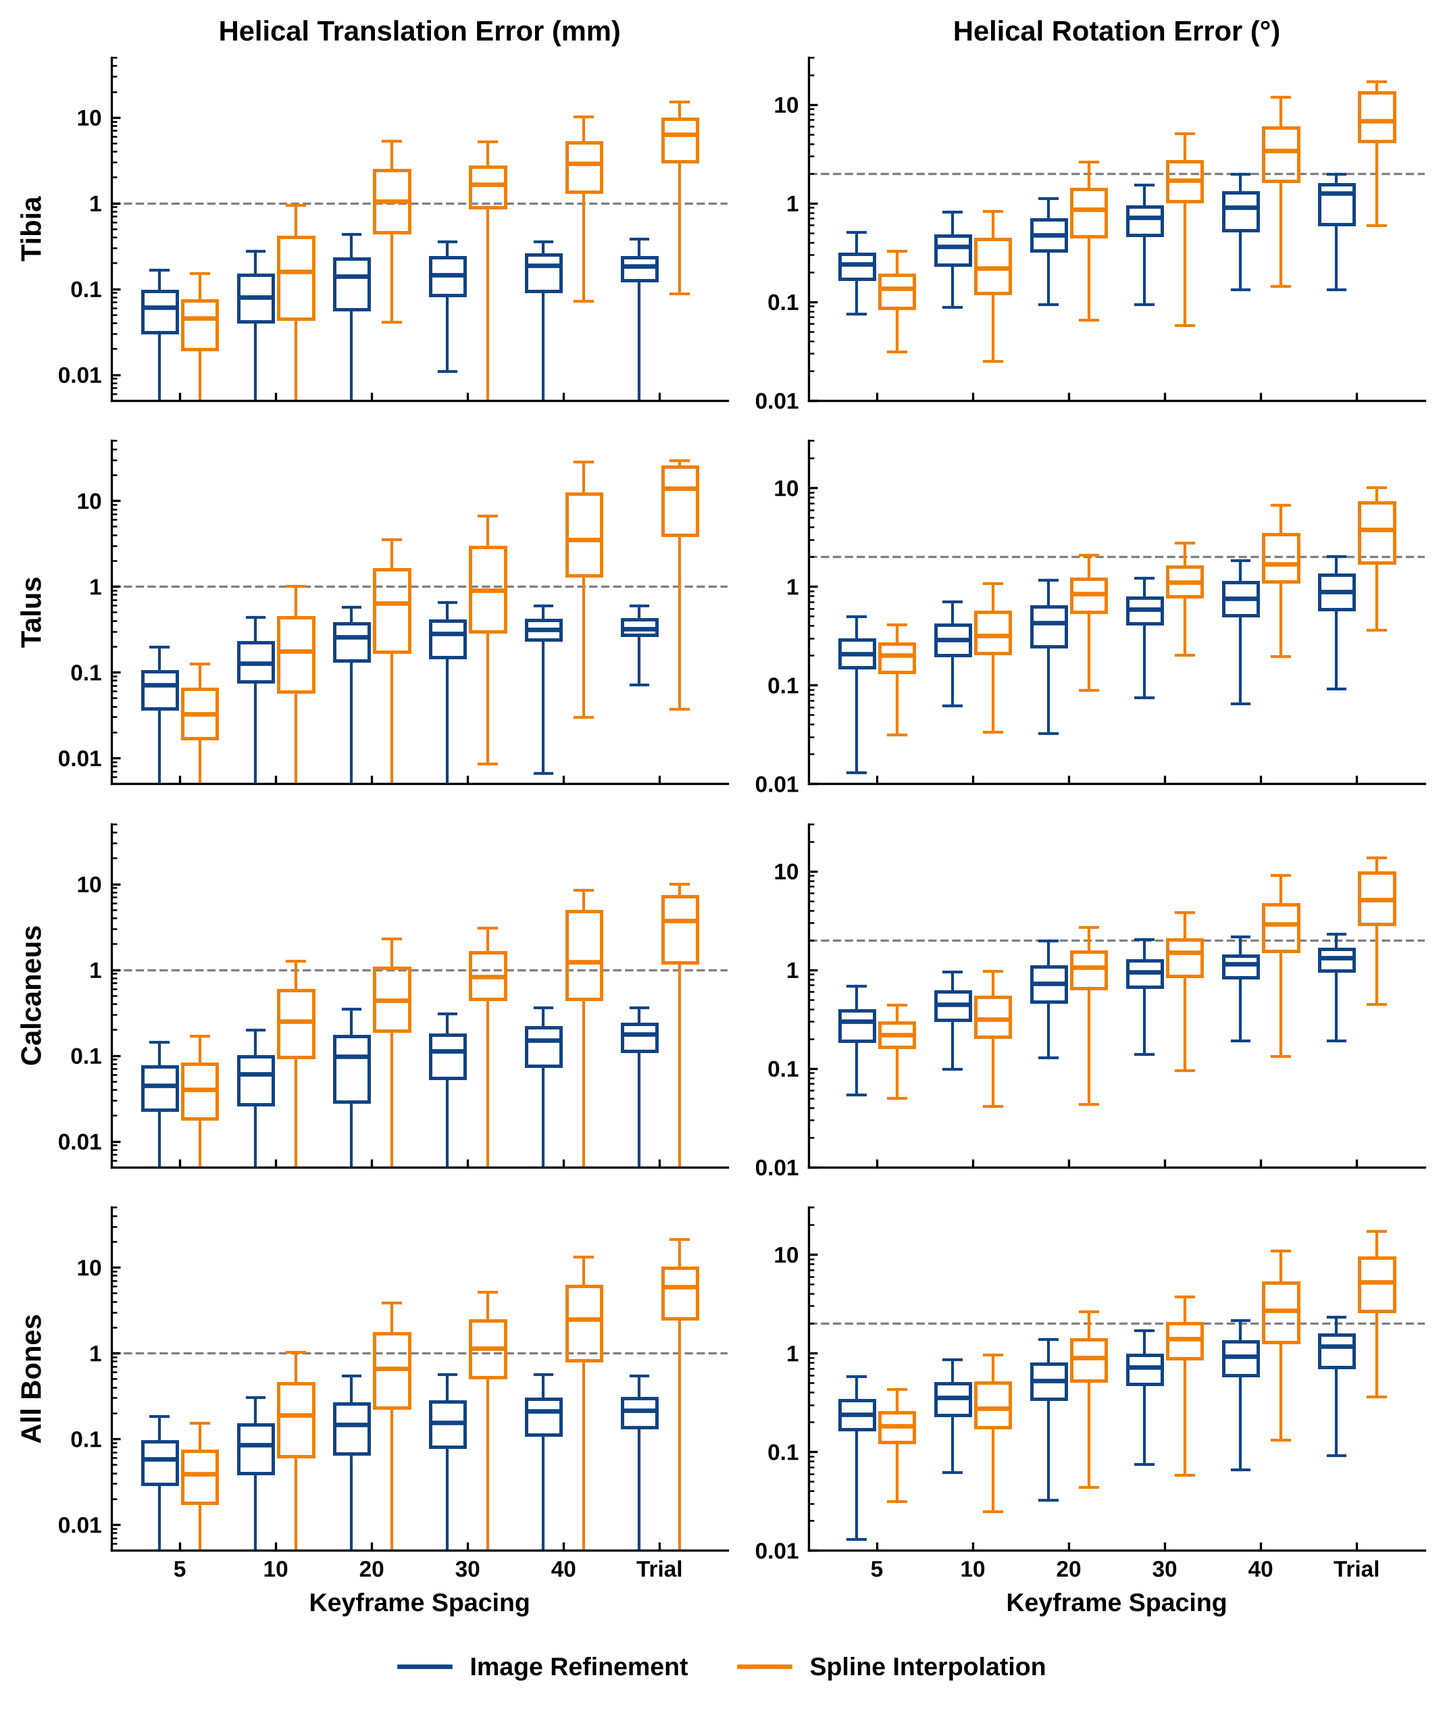
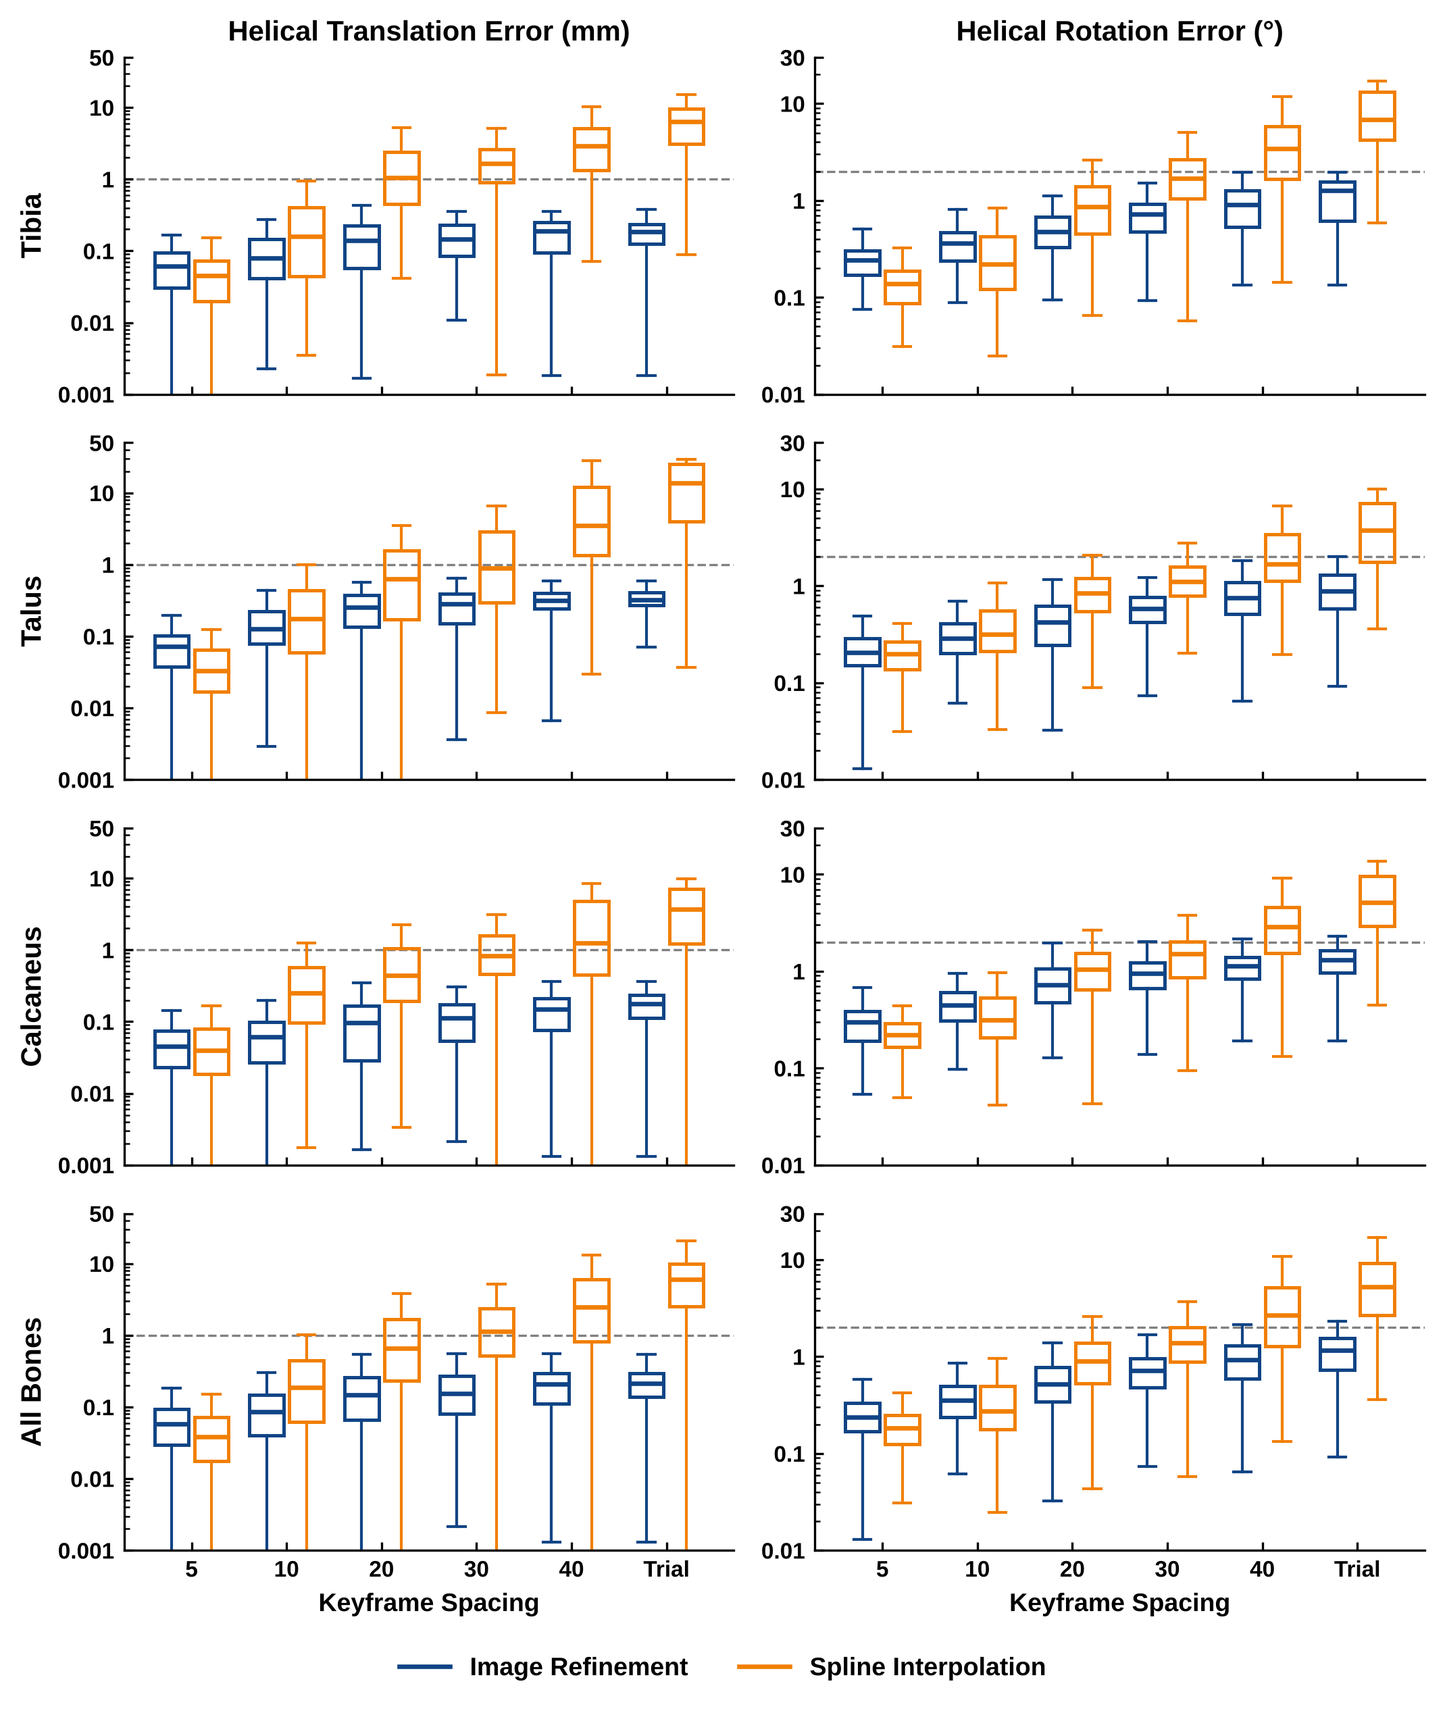
Aim 1: 95th percentiles in table; labelled axis ends in figure
Claude-Session: https://claude.ai/code/session_01JfvJhBuhVLNNbo2jK5Ak9k

diff --git a/paper/make_figures.py b/paper/make_figures.py
@@ -189,13 +189,13 @@ def figure_aim1(d):
     x = keyframe spacing; colour = image refinement vs spline interpolation. Shared y-axis down each column."""
     ps.apply()
     e0 = d[d.level == 'ideal']
-    cols = [('hel_mm', 'Helical Translation Error (mm)', TH_TR, (0.005, 50)),
-            ('rot_deg', 'Helical Rotation Error (°)', TH_ROT, (0.01, 30))]
+    cols = [('hel_mm', 'Helical Translation Error (mm)', TH_TR, (0.001, 50), [0.001, 0.01, 0.1, 1, 10, 50]),
+            ('rot_deg', 'Helical Rotation Error (°)', TH_ROT, (0.01, 30), [0.01, 0.1, 1, 10, 30])]
     fig, ax = plt.subplots(len(AIM1_ROWS), 2, figsize=(ps.DOUBLE, 8.4), sharex=True, sharey='col')
     x = np.arange(len(SP)); w = 0.36
     for i, (b, bl) in enumerate(AIM1_ROWS):
         eb = e0 if b is None else e0[e0.item == b]
-        for j, (col, title, th, lim) in enumerate(cols):
+        for j, (col, title, th, lim, ticks) in enumerate(cols):
             a = ax[i, j]
             for k, (lab, arm, ci) in enumerate(AIM1_ARMS):
                 ea = eb[eb.arm == arm]; c = ps.color(ci)
@@ -204,7 +204,10 @@ def figure_aim1(d):
                                medianprops=dict(color=c, lw=1.6), whiskerprops=dict(color=c, lw=1.0),
                                capprops=dict(color=c, lw=1.0), boxprops=dict(edgecolor=c, facecolor='none', lw=1.2))
             a.axhline(th, color='0.5', ls='--', lw=0.8, zorder=0)
-            a.set_yscale('log'); a.set_ylim(*lim); ps.plain_log(a, subs=(1,))
+            from matplotlib.ticker import FixedLocator, FuncFormatter, NullFormatter
+            a.set_yscale('log'); a.set_ylim(*lim)
+            a.yaxis.set_major_locator(FixedLocator(ticks)); a.yaxis.set_major_formatter(FuncFormatter(lambda v, _: f'{v:g}'))
+            a.yaxis.set_minor_formatter(NullFormatter())
             if i == 0:
                 a.set_title(title, fontsize=10)
             if j == 0:
@@ -236,7 +239,7 @@ def table_aim1(d):
                 for lab, arm, _ in AIM1_ARMS:
                     v = eb[(eb.arm == arm) & (eb.spacing == s_)][col].values
                     lo, hi = boot_median_frames(v, rng)
-                    r[f'{q}: {lab}'] = f'{np.median(v):.2f} ({lo:.2f}–{hi:.2f})'
+                    r[f'{q}: {lab}'] = f'{np.median(v):.2f} ({lo:.2f}–{hi:.2f}) [{np.percentile(v, 95):.2f}]'
             for lab, arm, _ in AIM1_ARMS:
                 r[f'Needs Correction (%): {lab}'] = f'{100 * eb[(eb.arm == arm) & (eb.spacing == s_)].bad.mean():.1f}'
             rows.append(r)
@@ -246,7 +249,7 @@ def table_aim1(d):
         T.to_excel(os.path.join(OUT, 'table_aim1.xlsx'), index=False)
     except Exception as ex:
         print('xlsx skipped:', ex)
-    note = ('Tracking error between keyframes with reference (marker-based) keyframes: median (95% CI) helical '
+    note = ('Tracking error between keyframes with reference (marker-based) keyframes: median (95% CI) [95th percentile] helical '
             'translation and rotation error, and the percentage of frames needing correction (rotation > 2° or '
             'translation > 1 mm; Welte et al., 2022), for image refinement and spline interpolation. Every scored '
             'frame of the four trials contributes one value per bone. CIs: percentile bootstrap of the median over '

diff --git a/results/paper/table_aim1.md b/results/paper/table_aim1.md
@@ -1,28 +1,28 @@
-Tracking error between keyframes with reference (marker-based) keyframes: median (95% CI) helical translation and rotation error, and the percentage of frames needing correction (rotation > 2° or translation > 1 mm; Welte et al., 2022), for image refinement and spline interpolation. Every scored frame of the four trials contributes one value per bone. CIs: percentile bootstrap of the median over frames (2,000 resamples). "Trial" = keyframes at the first and last tracked frames only.
+Tracking error between keyframes with reference (marker-based) keyframes: median (95% CI) [95th percentile] helical translation and rotation error, and the percentage of frames needing correction (rotation > 2° or translation > 1 mm; Welte et al., 2022), for image refinement and spline interpolation. Every scored frame of the four trials contributes one value per bone. CIs: percentile bootstrap of the median over frames (2,000 resamples). "Trial" = keyframes at the first and last tracked frames only.
 
 | Bone      | Keyframe Spacing (frames)   | Translation (mm): Image Refinement   | Translation (mm): Spline Interpolation   | Rotation (°): Image Refinement   | Rotation (°): Spline Interpolation   |   Needs Correction (%): Image Refinement |   Needs Correction (%): Spline Interpolation |
 |:----------|:----------------------------|:-------------------------------------|:-----------------------------------------|:---------------------------------|:-------------------------------------|-----------------------------------------:|---------------------------------------------:|
-| Tibia     | 5                           | 0.06 (0.05–0.07)                     | 0.05 (0.04–0.05)                         | 0.24 (0.21–0.26)                 | 0.14 (0.12–0.14)                     |                                      0   |                                          0   |
-| Tibia     | 10                          | 0.08 (0.07–0.11)                     | 0.16 (0.10–0.20)                         | 0.36 (0.32–0.40)                 | 0.22 (0.19–0.24)                     |                                      0   |                                          5.7 |
-| Tibia     | 20                          | 0.14 (0.12–0.17)                     | 1.06 (0.76–1.51)                         | 0.48 (0.43–0.53)                 | 0.87 (0.71–1.00)                     |                                      0   |                                         52.4 |
-| Tibia     | 30                          | 0.15 (0.13–0.16)                     | 1.65 (1.45–1.77)                         | 0.72 (0.63–0.79)                 | 1.70 (1.47–1.95)                     |                                      0   |                                         74.9 |
-| Tibia     | 40                          | 0.19 (0.16–0.21)                     | 2.89 (2.33–3.30)                         | 0.91 (0.83–0.99)                 | 3.43 (3.06–4.32)                     |                                      0   |                                         83.7 |
-| Tibia     | Trial                       | 0.18 (0.17–0.20)                     | 6.33 (4.84–7.38)                         | 1.26 (1.10–1.43)                 | 6.85 (5.51–9.30)                     |                                      0   |                                         96.5 |
-| Talus     | 5                           | 0.07 (0.06–0.08)                     | 0.03 (0.03–0.04)                         | 0.21 (0.18–0.23)                 | 0.20 (0.19–0.22)                     |                                      0   |                                          0   |
-| Talus     | 10                          | 0.13 (0.11–0.15)                     | 0.18 (0.12–0.20)                         | 0.29 (0.26–0.32)                 | 0.32 (0.27–0.35)                     |                                      0   |                                          4.4 |
-| Talus     | 20                          | 0.26 (0.22–0.30)                     | 0.63 (0.45–0.84)                         | 0.43 (0.37–0.49)                 | 0.84 (0.74–0.95)                     |                                      0   |                                         37.5 |
-| Talus     | 30                          | 0.28 (0.25–0.32)                     | 0.90 (0.70–1.54)                         | 0.58 (0.52–0.64)                 | 1.11 (1.01–1.17)                     |                                      0   |                                         49.7 |
-| Talus     | 40                          | 0.31 (0.30–0.33)                     | 3.51 (2.27–4.29)                         | 0.76 (0.68–0.80)                 | 1.68 (1.45–2.01)                     |                                      0   |                                         81.4 |
-| Talus     | Trial                       | 0.32 (0.31–0.34)                     | 13.84 (7.48–18.32)                       | 0.89 (0.79–0.99)                 | 3.77 (2.94–4.88)                     |                                      0.6 |                                         93.6 |
-| Calcaneus | 5                           | 0.04 (0.04–0.05)                     | 0.04 (0.03–0.05)                         | 0.30 (0.24–0.33)                 | 0.22 (0.19–0.23)                     |                                      0   |                                          0   |
-| Calcaneus | 10                          | 0.06 (0.05–0.07)                     | 0.25 (0.19–0.31)                         | 0.45 (0.40–0.49)                 | 0.31 (0.27–0.37)                     |                                      0   |                                         10.1 |
-| Calcaneus | 20                          | 0.10 (0.08–0.12)                     | 0.44 (0.35–0.60)                         | 0.73 (0.64–0.80)                 | 1.05 (0.89–1.15)                     |                                      1.8 |                                         33.3 |
-| Calcaneus | 30                          | 0.11 (0.09–0.14)                     | 0.83 (0.74–0.95)                         | 0.95 (0.87–1.01)                 | 1.51 (1.35–1.65)                     |                                      1.8 |                                         52.6 |
-| Calcaneus | 40                          | 0.15 (0.13–0.16)                     | 1.24 (0.94–2.17)                         | 1.14 (1.07–1.20)                 | 2.89 (2.36–3.15)                     |                                      1.7 |                                         73.3 |
-| Calcaneus | Trial                       | 0.18 (0.16–0.18)                     | 3.72 (2.72–4.76)                         | 1.32 (1.21–1.42)                 | 5.13 (3.91–6.81)                     |                                      5.8 |                                         89   |
-| All Bones | 5                           | 0.06 (0.05–0.06)                     | 0.04 (0.03–0.04)                         | 0.24 (0.22–0.25)                 | 0.18 (0.17–0.19)                     |                                      0   |                                          0   |
-| All Bones | 10                          | 0.09 (0.08–0.09)                     | 0.19 (0.16–0.21)                         | 0.36 (0.33–0.38)                 | 0.28 (0.25–0.31)                     |                                      0   |                                          6.7 |
-| All Bones | 20                          | 0.15 (0.14–0.17)                     | 0.66 (0.57–0.77)                         | 0.52 (0.49–0.55)                 | 0.90 (0.84–0.99)                     |                                      0.6 |                                         41.1 |
-| All Bones | 30                          | 0.15 (0.14–0.17)                     | 1.14 (0.97–1.35)                         | 0.72 (0.68–0.76)                 | 1.39 (1.26–1.50)                     |                                      0.6 |                                         59.1 |
-| All Bones | 40                          | 0.21 (0.20–0.22)                     | 2.47 (2.14–2.95)                         | 0.93 (0.88–0.99)                 | 2.69 (2.43–2.92)                     |                                      0.6 |                                         79.5 |
-| All Bones | Trial                       | 0.22 (0.20–0.23)                     | 5.97 (5.08–6.62)                         | 1.17 (1.09–1.22)                 | 5.28 (4.81–5.82)                     |                                      2.1 |                                         93.1 |
+| Tibia     | 5                           | 0.06 (0.05–0.07) [0.16]              | 0.05 (0.04–0.05) [0.14]                  | 0.24 (0.21–0.26) [0.43]          | 0.14 (0.12–0.14) [0.32]              |                                      0   |                                          0   |
+| Tibia     | 10                          | 0.08 (0.07–0.11) [0.22]              | 0.16 (0.10–0.20) [1.01]                  | 0.36 (0.32–0.40) [0.73]          | 0.22 (0.19–0.24) [0.69]              |                                      0   |                                          5.7 |
+| Tibia     | 20                          | 0.14 (0.12–0.17) [0.31]              | 1.06 (0.76–1.51) [5.06]                  | 0.48 (0.43–0.53) [0.97]          | 0.87 (0.71–1.00) [4.80]              |                                      0   |                                         52.4 |
+| Tibia     | 30                          | 0.15 (0.13–0.16) [0.31]              | 1.65 (1.45–1.77) [5.37]                  | 0.72 (0.63–0.79) [1.19]          | 1.70 (1.47–1.95) [5.33]              |                                      0   |                                         74.9 |
+| Tibia     | 40                          | 0.19 (0.16–0.21) [0.32]              | 2.89 (2.33–3.30) [11.67]                 | 0.91 (0.83–0.99) [1.79]          | 3.43 (3.06–4.32) [14.51]             |                                      0   |                                         83.7 |
+| Tibia     | Trial                       | 0.18 (0.17–0.20) [0.32]              | 6.33 (4.84–7.38) [12.82]                 | 1.26 (1.10–1.43) [1.84]          | 6.85 (5.51–9.30) [16.76]             |                                      0   |                                         96.5 |
+| Talus     | 5                           | 0.07 (0.06–0.08) [0.18]              | 0.03 (0.03–0.04) [0.18]                  | 0.21 (0.18–0.23) [0.46]          | 0.20 (0.19–0.22) [0.46]              |                                      0   |                                          0   |
+| Talus     | 10                          | 0.13 (0.11–0.15) [0.34]              | 0.18 (0.12–0.20) [0.98]                  | 0.29 (0.26–0.32) [0.65]          | 0.32 (0.27–0.35) [0.86]              |                                      0   |                                          4.4 |
+| Talus     | 20                          | 0.26 (0.22–0.30) [0.53]              | 0.63 (0.45–0.84) [3.97]                  | 0.43 (0.37–0.49) [0.92]          | 0.84 (0.74–0.95) [2.44]              |                                      0   |                                         37.5 |
+| Talus     | 30                          | 0.28 (0.25–0.32) [0.55]              | 0.90 (0.70–1.54) [5.29]                  | 0.58 (0.52–0.64) [1.01]          | 1.11 (1.01–1.17) [2.44]              |                                      0   |                                         49.7 |
+| Talus     | 40                          | 0.31 (0.30–0.33) [0.54]              | 3.51 (2.27–4.29) [27.69]                 | 0.76 (0.68–0.80) [1.63]          | 1.68 (1.45–2.01) [7.48]              |                                      0   |                                         81.4 |
+| Talus     | Trial                       | 0.32 (0.31–0.34) [0.54]              | 13.84 (7.48–18.32) [28.43]               | 0.89 (0.79–0.99) [1.75]          | 3.77 (2.94–4.88) [9.33]              |                                      0.6 |                                         93.6 |
+| Calcaneus | 5                           | 0.04 (0.04–0.05) [0.13]              | 0.04 (0.03–0.05) [0.20]                  | 0.30 (0.24–0.33) [0.58]          | 0.22 (0.19–0.23) [0.50]              |                                      0   |                                          0   |
+| Calcaneus | 10                          | 0.06 (0.05–0.07) [0.18]              | 0.25 (0.19–0.31) [1.15]                  | 0.45 (0.40–0.49) [0.80]          | 0.31 (0.27–0.37) [0.86]              |                                      0   |                                         10.1 |
+| Calcaneus | 20                          | 0.10 (0.08–0.12) [0.27]              | 0.44 (0.35–0.60) [2.15]                  | 0.73 (0.64–0.80) [1.79]          | 1.05 (0.89–1.15) [3.57]              |                                      1.8 |                                         33.3 |
+| Calcaneus | 30                          | 0.11 (0.09–0.14) [0.27]              | 0.83 (0.74–0.95) [3.23]                  | 0.95 (0.87–1.01) [1.79]          | 1.51 (1.35–1.65) [3.56]              |                                      1.8 |                                         52.6 |
+| Calcaneus | 40                          | 0.15 (0.13–0.16) [0.30]              | 1.24 (0.94–2.17) [7.92]                  | 1.14 (1.07–1.20) [1.79]          | 2.89 (2.36–3.15) [10.34]             |                                      1.7 |                                         73.3 |
+| Calcaneus | Trial                       | 0.18 (0.16–0.18) [0.30]              | 3.72 (2.72–4.76) [8.84]                  | 1.32 (1.21–1.42) [2.01]          | 5.13 (3.91–6.81) [12.75]             |                                      5.8 |                                         89   |
+| All Bones | 5                           | 0.06 (0.05–0.06) [0.16]              | 0.04 (0.03–0.04) [0.19]                  | 0.24 (0.22–0.25) [0.49]          | 0.18 (0.17–0.19) [0.41]              |                                      0   |                                          0   |
+| All Bones | 10                          | 0.09 (0.08–0.09) [0.28]              | 0.19 (0.16–0.21) [1.09]                  | 0.36 (0.33–0.38) [0.77]          | 0.28 (0.25–0.31) [0.82]              |                                      0   |                                          6.7 |
+| All Bones | 20                          | 0.15 (0.14–0.17) [0.43]              | 0.66 (0.57–0.77) [4.04]                  | 0.52 (0.49–0.55) [1.22]          | 0.90 (0.84–0.99) [3.53]              |                                      0.6 |                                         41.1 |
+| All Bones | 30                          | 0.15 (0.14–0.17) [0.45]              | 1.14 (0.97–1.35) [5.10]                  | 0.72 (0.68–0.76) [1.41]          | 1.39 (1.26–1.50) [4.34]              |                                      0.6 |                                         59.1 |
+| All Bones | 40                          | 0.21 (0.20–0.22) [0.46]              | 2.47 (2.14–2.95) [23.65]                 | 0.93 (0.88–0.99) [1.69]          | 2.69 (2.43–2.92) [10.95]             |                                      0.6 |                                         79.5 |
+| All Bones | Trial                       | 0.22 (0.20–0.23) [0.45]              | 5.97 (5.08–6.62) [27.16]                 | 1.17 (1.09–1.22) [1.87]          | 5.28 (4.81–5.82) [14.76]             |                                      2.1 |                                         93.1 |
